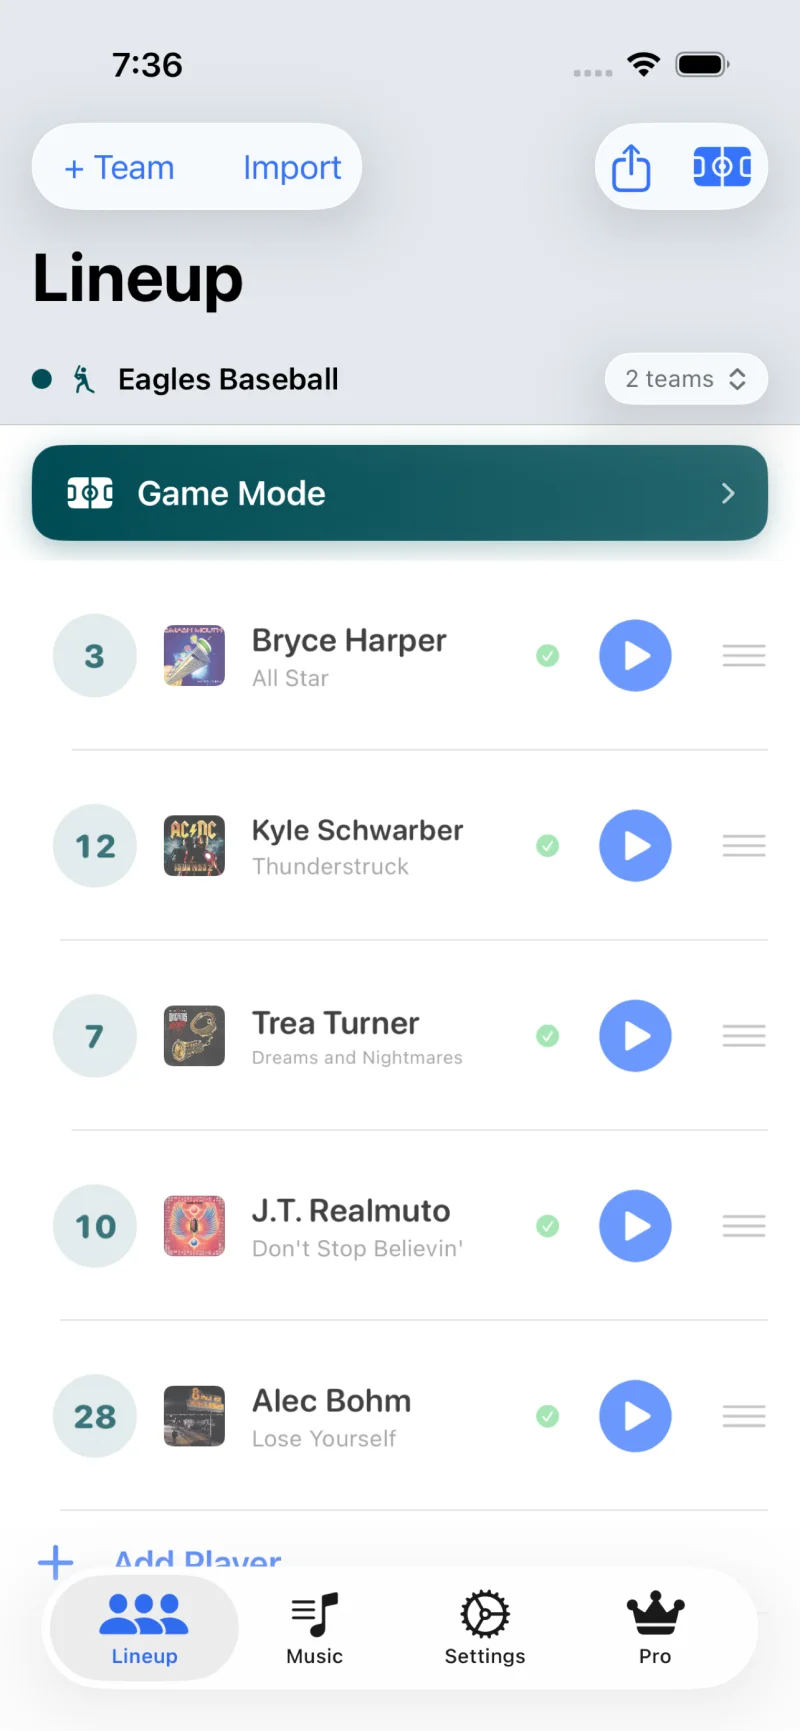
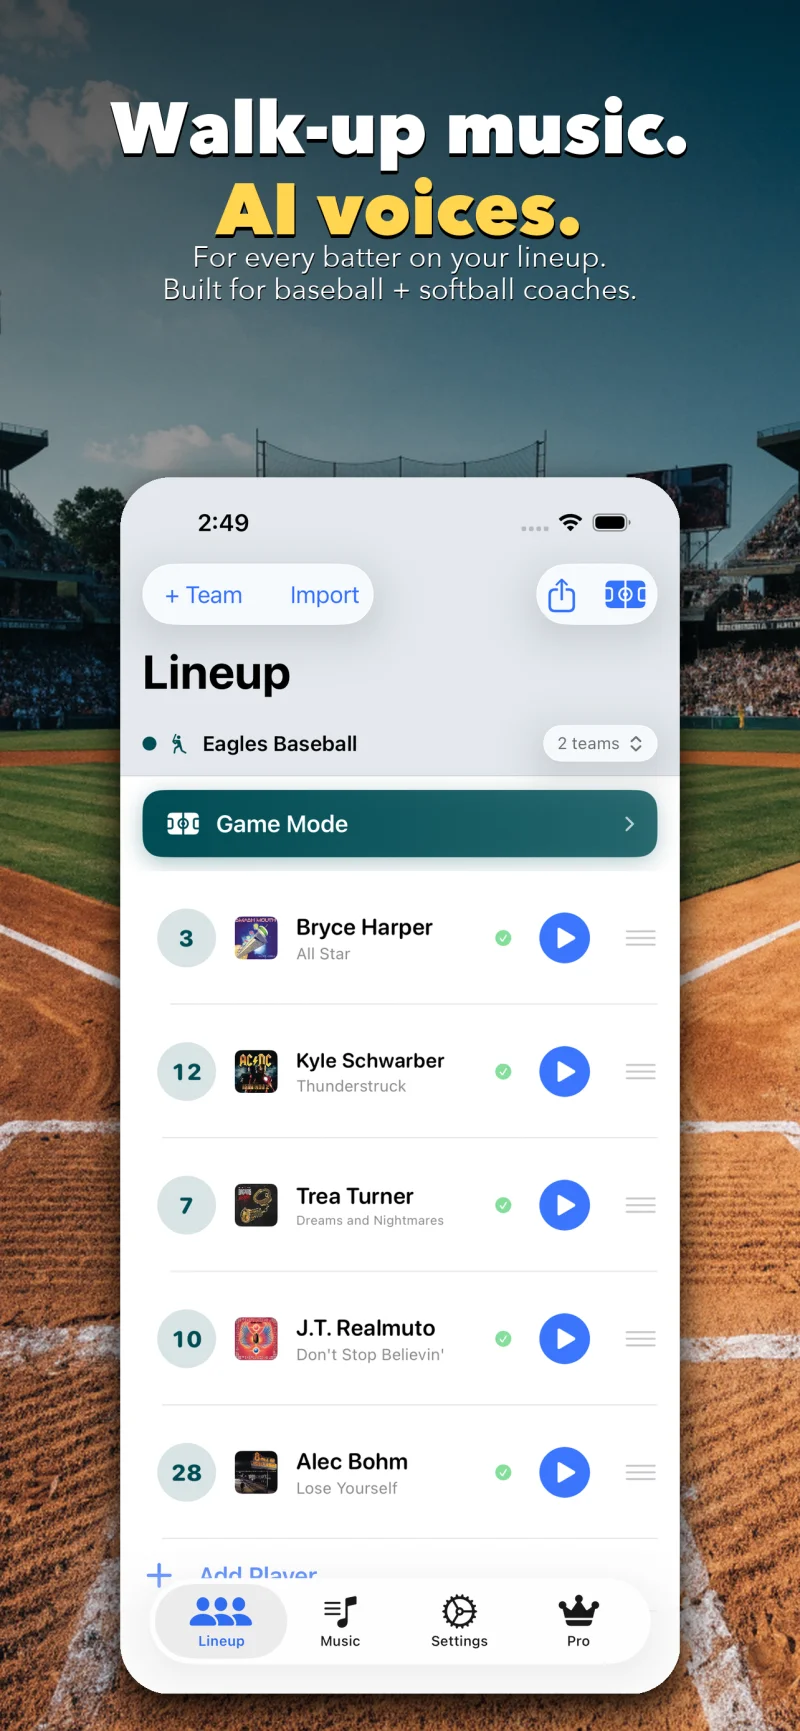
Refresh lineup + watch screenshots
Lineup: re-composed with the marketing canvas (Walk-up music. / AI
voices.) that was lost during the v2.0 simulator-capture pass.  Now
matches the v1.10-style treatment used by every other carousel slot.
Captures the new "Game Mode" CTA label (was "Game Time") and the
full-opacity scroll rows (the previous opacity dim made the list
read as faded).

Watch: replaced the previous portrait phone-aspect canvas with the
bare Watch screenshot (Ultra3 49mm sim capture).  Updated the img
tag dimensions from 320x693 to 320x390 to match the actual Watch
aspect.  No more iPhone-shaped dark canvas behind the watch on the
showcase row.

diff --git a/index.html b/index.html
@@ -958,7 +958,7 @@
         </ul>
       </div>
       <div class="showcase-image-wrap">
-        <img src="/screenshots/watch.webp" alt="OnDeckDJ Apple Watch companion app showing the current batter" class="showcase-image" loading="lazy" width="320" height="693">
+        <img src="/screenshots/watch.webp" alt="OnDeckDJ Apple Watch companion app showing the current batter" class="showcase-image" loading="lazy" width="320" height="390">
       </div>
     </div>
   </div>
